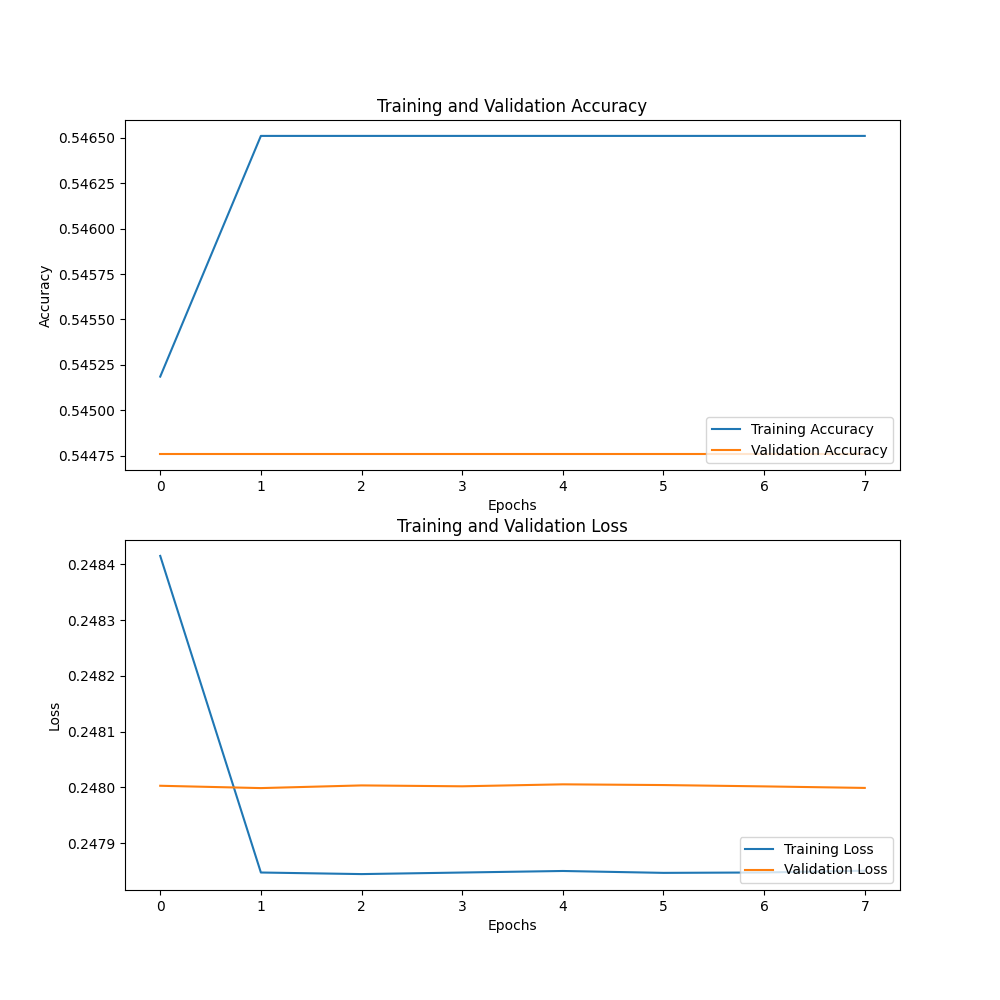
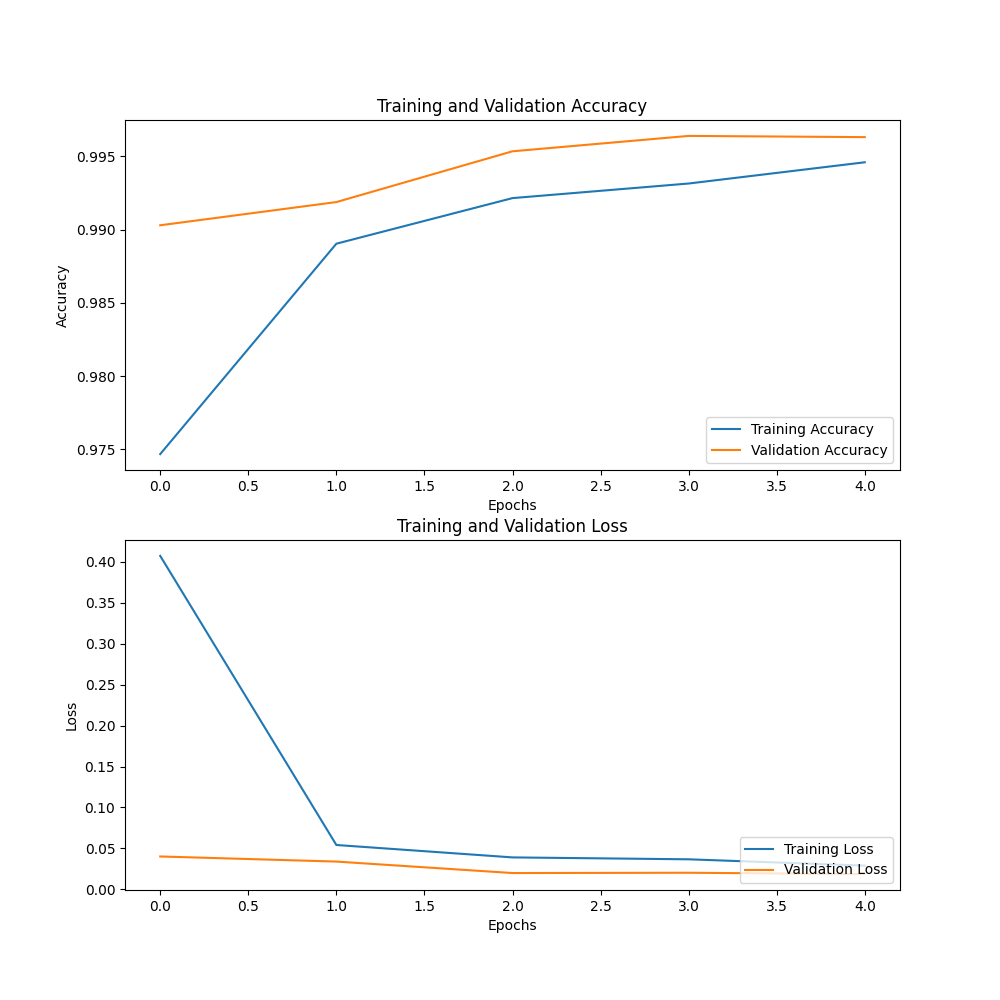
feat: inference + train + plots with new model

diff --git a/cnn/classifier.py b/cnn/classifier.py
@@ -2,8 +2,8 @@ from keras import layers, Model
 
 
 class Classifier(Model):
-    def __init__(self):
-        super(Classifier, self).__init__()
+    def __init__(self, trainable=True, *args, **kwargs):
+        super(Classifier, self).__init__(trainable=trainable, *args, **kwargs)
 
         # convolution + feature extraction
         self.conv1 = layers.Conv2D(16, (3, 3))
@@ -18,12 +18,19 @@ class Classifier(Model):
         self.batch_norm3 = layers.BatchNormalization()
         self.relu3 = layers.Activation('relu')
         self.max_pool3 = layers.MaxPool2D(pool_size=2, strides=2)
+        self.conv4 = layers.Conv2D(64, (3, 3))
+        self.batch_norm4 = layers.BatchNormalization()
+        self.relu4 = layers.Activation('relu')
+        self.max_pool4 = layers.MaxPool2D(pool_size=2, strides=2)
 
         self.dropout = layers.Dropout(0.5)
 
         # dense layer + output
         self.flatten = layers.Flatten()
         self.d1 = layers.Dense(1024, activation='relu')
+
+        self.dropout2 = layers.Dropout(0.5)
+
         self.d2 = layers.Dense(2, activation='softmax')
 
     def call(self, x, training=True):
@@ -39,10 +46,15 @@ class Classifier(Model):
         x = self.batch_norm3(x)
         x = self.relu3(x)
         x = self.max_pool3(x)
+        x = self.conv4(x)
+        x = self.batch_norm4(x)
+        x = self.relu4(x)
+        x = self.max_pool4(x)
         if training:
             x = self.dropout(x)
-
         x = self.flatten(x)
         x = self.d1(x)
+        if training:
+            x = self.dropout2(x)
         x = self.d2(x)
         return x

diff --git a/cnn/train.py b/cnn/train.py
@@ -1,15 +1,16 @@
 import os
-from keras import layers, utils, Sequential
+from keras import utils, models
 from classifier import Classifier
 from trainer import Trainer
 
 EPOCHS = 100
-BATCH_SIZE = 128
+BATCH_SIZE = 32
 VALIDATION_SPLIT = 0.2
+LEARNING_RATE = 0.01
 
 IMG_SIZE = (512, 256)
 
-CHECKPOINT_PATH = 'cnn/checkpoints/model'
+CHECKPOINT_PATH = 'cnn/checkpoints/model.keras'
 METRICS_PATH = 'cnn/metrics/metrics.png'
 CSV_PATH = 'cnn/metrics/metrics.csv'
 '''
@@ -24,13 +25,11 @@ main_directory/
         img2
         ...
 '''
-DATASET_PATH = r'ds_train'
+DATASET_PATH = r'ds_path'
 
 model = Classifier()
 if os.path.exists(CHECKPOINT_PATH):
-    model = Sequential(
-        [layers.TFSMLayer(CHECKPOINT_PATH, call_endpoint='serving_default')])
-    print('Model loaded successfully')
+    model = models.load_model(CHECKPOINT_PATH)
 
 # todo: Configure dataset for performance (cache and prefetch)
 train_ds, test_ds = utils.image_dataset_from_directory(
@@ -44,6 +43,6 @@ train_ds, test_ds = utils.image_dataset_from_directory(
     image_size=IMG_SIZE,
     batch_size=BATCH_SIZE)
 
-trainer = Trainer(model=model)
+trainer = Trainer(model=model, learning_rate=LEARNING_RATE)
 trainer.train(epochs=EPOCHS, train_ds=train_ds, test_ds=test_ds,
               checkpoint_path=CHECKPOINT_PATH, metrics_path=METRICS_PATH, csv_path=CSV_PATH)

diff --git a/cnn/trainer.py b/cnn/trainer.py
@@ -4,21 +4,20 @@ import matplotlib.pyplot as plt
 from classifier import Classifier
 from tqdm import tqdm
 import numpy as np
-import os
 import sys
 
 
 class Trainer:
-    def __init__(self, model: Classifier):
+    def __init__(self, model: Classifier, learning_rate: float = 0.01):
         self.model = model
         self.loss_obj = losses.CategoricalCrossentropy()
-        self.optimizer = optimizers.Adam()
+        self.optimizer = optimizers.Adam(learning_rate)
 
         # loss metrics
-        self.train_loss = metrics.MeanSquaredError(name='train_loss')
+        self.train_loss = metrics.CategoricalCrossentropy(name='train_loss')
         self.train_accuracy = metrics.CategoricalAccuracy(
             name='train_accuracy')
-        self.test_loss = metrics.MeanSquaredError(name='test_loss')
+        self.test_loss = metrics.CategoricalCrossentropy(name='test_loss')
         self.test_accuracy = metrics.CategoricalAccuracy(
             name='test_accuracy')
 
@@ -105,7 +104,7 @@ class Trainer:
             self.test_loss_history.append(self.test_loss.result())
             self.test_accuracy_history.append(self.test_accuracy.result())
 
-            self.model.export(os.path.join(checkpoint_path))
+            self.model.save(checkpoint_path)
             self.plot(metrics_path)
             self.save_csv(csv_path)
 

diff --git a/cnn/inference.py b/cnn/inference.py
@@ -1,18 +1,16 @@
-from classifier import Classifier
 import numpy as np
-from keras import utils, ops, Sequential, layers
+from keras import utils, ops, models
 import tensorflow as tf
 import librosa
 from io import BytesIO
 import matplotlib.pyplot as plt
 import PIL.Image as img
 
-CHECKPOINT_PATH = 'cnn/checkpoints/model'
+CHECKPOINT_PATH = 'cnn/checkpoints/model.keras'
 
 IMG_SIZE = (512, 256)
 
-model = Classifier()
-model = Sequential([layers.TFSMLayer(CHECKPOINT_PATH, call_endpoint='serving_default')])
+model = models.load_model(CHECKPOINT_PATH)
 
 AUDIO_PATH = r'audio_path'
 
@@ -24,16 +22,15 @@ spec = np.abs(librosa.cqt(y, sr=sr))
 spec = librosa.amplitude_to_db(spec, ref=np.max)
 
 img_bytesio = BytesIO()
-plt.imsave(img_bytesio, spec, cmap='viridius', format='png')
+plt.imsave(img_bytesio, spec, cmap='viridis')
 img_bytesio.seek(0)
 
-image = img.open(img_bytesio)
+image = img.open(img_bytesio).convert('RGB')
 image = image.resize(IMG_SIZE)
 
 img_array = utils.img_to_array(image)
 img_array = tf.expand_dims(img_array, 0)
 
 predictions = model.predict(img_array)
-score = ops.nn.softmax(predictions['output_0'])
 
-print(f"Your audio is probably '{class_names[np.argmax(score)]}' with {100*np.max(score):.2f}% confidence.")
+print(f"Your audio is probably '{class_names[np.argmax(predictions)]}'")

diff --git a/cnn/inference_folder.py b/cnn/inference_folder.py
@@ -1,12 +1,11 @@
 from classifier import Classifier
-from keras import utils, Sequential, layers, metrics
+from keras import utils, models, metrics
 from tqdm import tqdm
 
-CHECKPOINT_PATH = 'cnn/checkpoints/model'
+CHECKPOINT_PATH = 'cnn/checkpoints/model.keras'
 FOLDER_PATH = r'folder_path'
 
-model = Classifier()
-model = Sequential([layers.TFSMLayer(CHECKPOINT_PATH, call_endpoint='serving_default')])
+model = models.load_model(CHECKPOINT_PATH)
 
 ds = utils.image_dataset_from_directory(
     FOLDER_PATH,
@@ -17,7 +16,7 @@ ds = utils.image_dataset_from_directory(
     seed=123,
     image_size=(512, 256))
 
-loss = metrics.MeanSquaredError(name='loss')
+loss = metrics.CategoricalCrossentropy(name='loss')
 accuracy = metrics.CategoricalAccuracy(name='accuracy')
 
 for images, labels in tqdm(ds):
